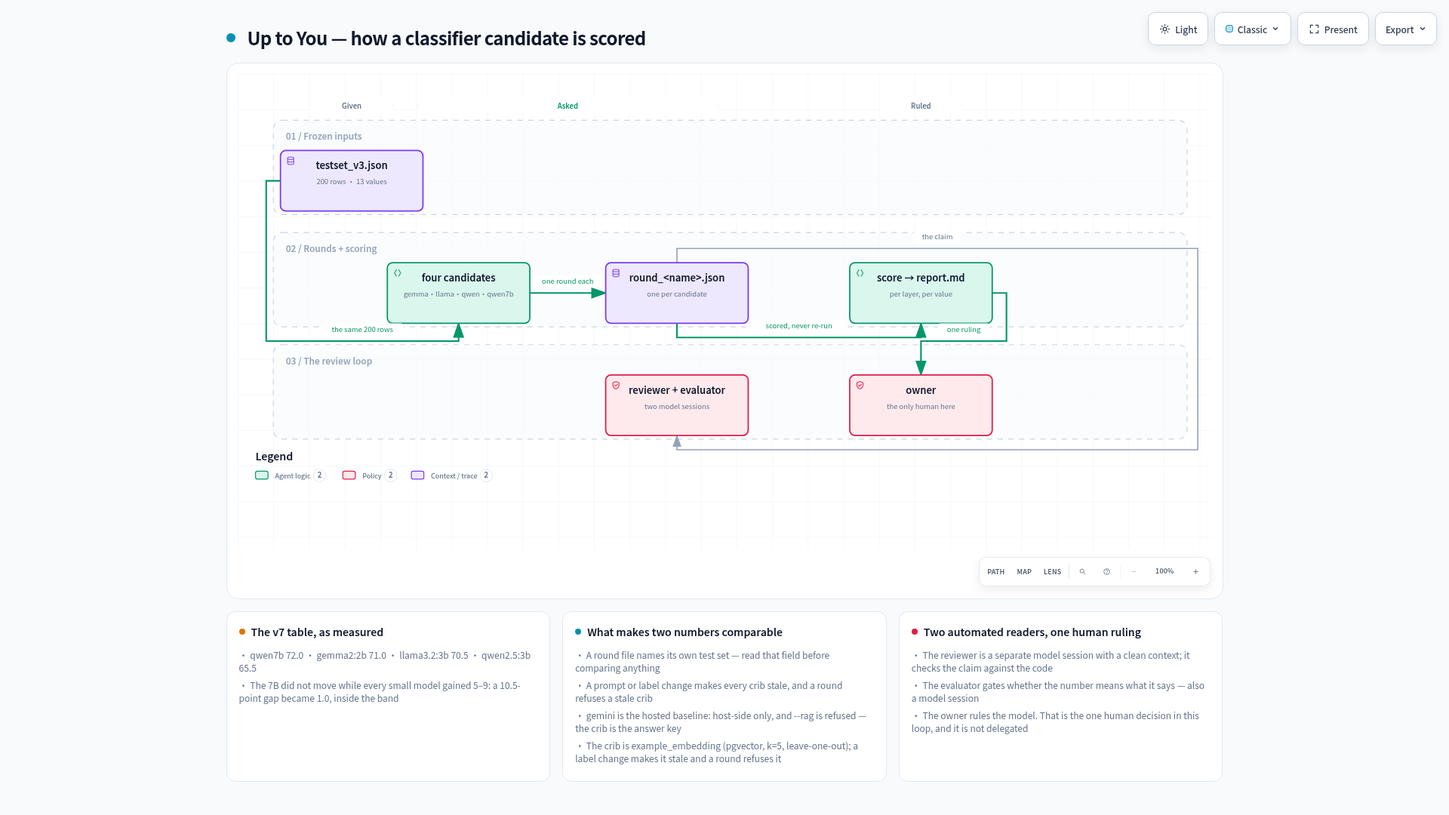
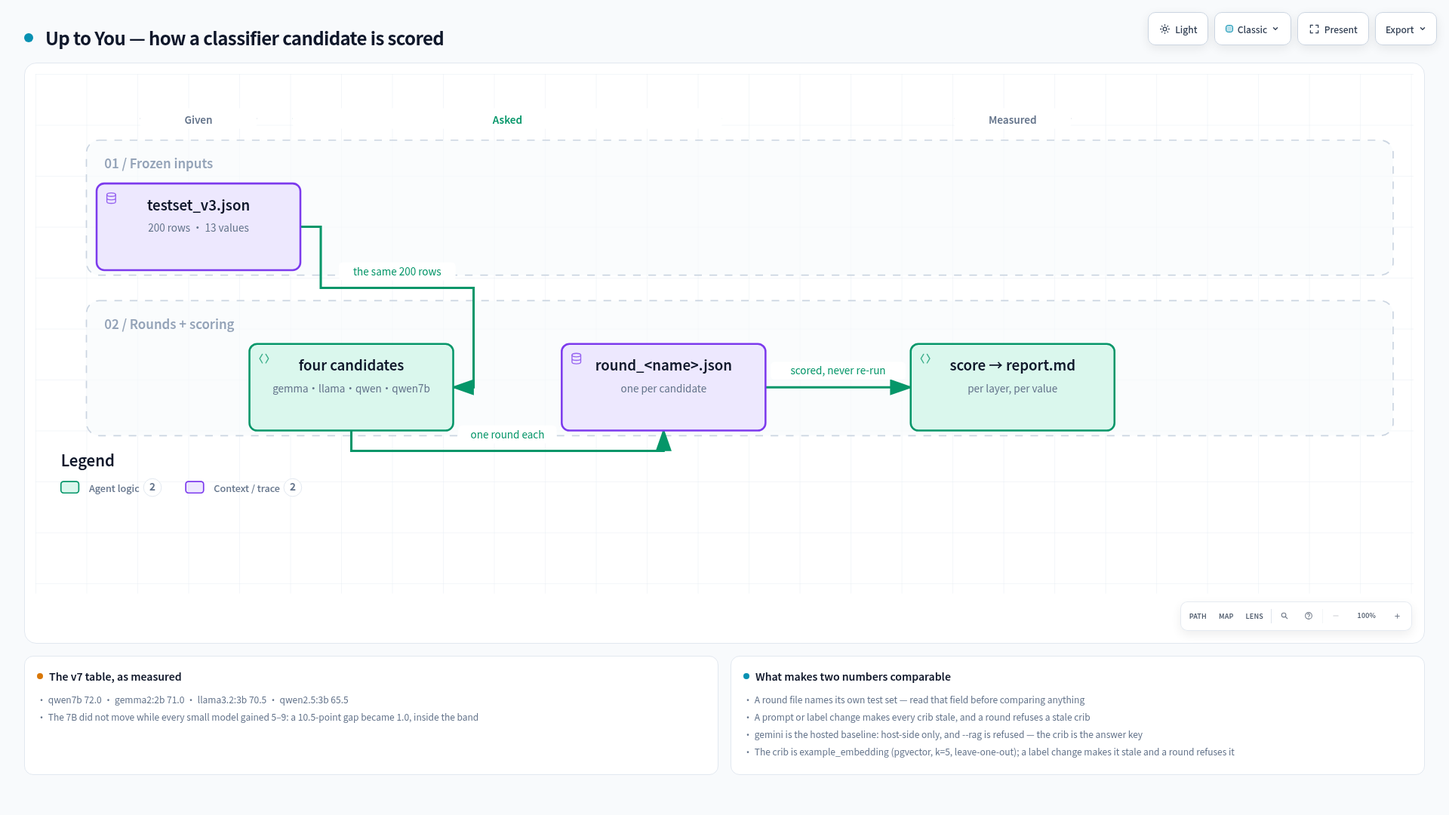
diagrams: the three drawn pictures redrawn for a public reader (evaluator)
The evaluator's redraws, committed by backend's pen. `architecture`, `etl-flow` and
`evaluation-flow`, each as `.json` (the editable source), `.png` (what the README embeds) and
`.html` (the explorable copy, carrying the same text).

Delivered and verified here by md5: architecture 58179bed / f2661df6 · etl-flow 8167ec7d /
083e9a84 · evaluation-flow d8dd8f4c / 6396ebd1.

The four text fixes that were to ride with these are already in 28ec4a1; this commit is the
pictures alone.

**The eight-word check re-run on this side rather than taken on trust, over all nine files.**
«reviewer», «The review loop», «proven not assumed», «t3.small», «completed_successfully» and
«A failed migration» are gone. Two words still match and both are false positives, recorded so the
next person running this grep does not re-open them:

- **`A9`** matches the hex colour `#a9c5d5` in every `.html`'s stylesheet.
- **`ruled`** matches «a palette for paper, ink, ruled structure, and one accent» — a theme comment
  using the word in its drawing sense, about ruled lines on paper.

**One real match, left alone deliberately:** `evaluation-flow.json` carries `"id": "ruled"` as a
node identifier. It is not displayed text — it appears in no `.png` and renders nowhere in the
`.html` — but it is a word from the private vocabulary sitting in a file that ships. Renaming it
means re-rendering the `.png` and the `.html` from the source, so it belongs to whoever regenerates
[…]

diff --git a/docs/diagrams/architecture.html b/docs/diagrams/architecture.html
@@ -5038,7 +5038,7 @@
         <rect width="100%" height="100%" fill="url(#grid)" />
 
         <!-- Boundaries (behind everything) -->
-        <rect data-graph-role="structural-frame" data-composition-frame-kind="region" data-composition-frame-id="0" data-composition-frame-label="One host — docker compose (EC2 t3.small, Tokyo)" x="350" y="130" width="830" height="538" rx="12" class="c-region" stroke-width="1"/>
+        <rect data-graph-role="structural-frame" data-composition-frame-kind="region" data-composition-frame-id="0" data-composition-frame-label="One host — docker compose (EC2 t3.medium, Tokyo)" x="350" y="130" width="830" height="538" rx="12" class="c-region" stroke-width="1"/>
 
         <rect data-graph-role="structural-frame" data-composition-frame-kind="security-group" data-composition-frame-id="1" data-composition-frame-label="member-facing" x="440" y="270" width="430" height="112" rx="8" class="c-security-group" stroke-width="1"/>
 
@@ -5049,13 +5049,12 @@
         <path data-edge-from="proxy" data-edge-to="api" data-edge-label="strips /api/" data-edge-key="3" data-edge-id="proxy-api" data-composition-points="620,331;700,331" d="M 620 331 L 700 331" class="a-emphasis" stroke-width="1.8" marker-end="url(#arrowhead-emphasis)"/>
         <path data-edge-from="api" data-edge-to="db" data-edge-label="asyncpg as upto_api" data-edge-key="4" data-edge-id="api-db" data-composition-points="840,331;1000,331" d="M 840 331 L 1000 331" class="a-default" stroke-width="1.5" marker-end="url(#arrowhead)"/>
         <path data-edge-from="migrate" data-edge-to="db" data-edge-label="owner role" data-edge-key="5" data-edge-id="migrate-db" data-composition-points="840,189;1075,189;1075,300" d="M 840 189 L 1067 189 Q 1075 189 1075 197 L 1075 300" class="a-dashed" stroke-width="1.5" marker-end="url(#arrowhead-dashed)"/>
-        <path data-edge-from="migrate" data-edge-to="api" data-edge-label="completed_successfully" data-edge-key="6" data-edge-id="migrate-api" data-composition-points="770,218;770,300" d="M 770 218 L 770 300" class="a-dashed" stroke-width="1.5" marker-end="url(#arrowhead-dashed)"/>
-        <path data-edge-from="dagproc" data-edge-to="scheduler" data-edge-label="serialised DAGs" data-edge-key="7" data-edge-id="dag-sched" data-composition-points="540,484;660,484" d="M 540 484 L 660 484" class="a-default" stroke-width="1.5" marker-end="url(#arrowhead)"/>
-        <path data-edge-from="scheduler" data-edge-to="db" data-edge-label="ingests · erasure · backup" data-edge-key="8" data-edge-id="sched-db" data-composition-points="735,455;735,408.5;1075,408.5;1075,362" d="M 735 455 L 735 416.5 Q 735 408.5 743 408.5 L 1067 408.5 Q 1075 408.5 1075 400.5 L 1075 362" class="a-default" stroke-width="1.5" marker-end="url(#arrowhead)"/>
-        <path data-edge-from="scheduler" data-edge-to="airflowapi" data-edge-label="airflow-logs volume" data-edge-key="9" data-edge-id="sched-logs" data-composition-points="810,484;960,484" d="M 810 484 L 960 484" class="a-dashed" stroke-width="1.5" marker-end="url(#arrowhead-dashed)"/>
-        <path data-edge-from="scheduler" data-edge-to="relay" data-edge-label="classify backfill" data-edge-key="10" data-edge-id="sched-relay" data-composition-points="728,513;728,537;554,537;554,619;530,619" d="M 728 513 L 728 529 Q 728 537 720 537 L 562 537 Q 554 537 554 545 L 554 611 Q 554 619 546 619 L 530 619" class="a-default" stroke-width="1.5" marker-end="url(#arrowhead)"/>
-        <path data-edge-from="relay" data-edge-to="gpu" data-edge-label="ssh tunnel" data-edge-key="11" data-edge-id="relay-gpu" data-composition-points="380,619;270,619" d="M 380 619 L 270 619" class="a-default" stroke-width="1.5" marker-end="url(#arrowhead)"/>
-        <path data-edge-from="scheduler" data-edge-to="s3" data-edge-label="pg_dump as upto_backup" data-edge-key="12" data-edge-id="sched-s3" data-composition-points="742,513;742,537;1116,537;1116,619;1140,619" d="M 742 513 L 742 529 Q 742 537 750 537 L 1108 537 Q 1116 537 1116 545 L 1116 611 Q 1116 619 1124 619 L 1140 619" class="a-default" stroke-width="1.5" marker-end="url(#arrowhead)"/>
+        <path data-edge-from="dagproc" data-edge-to="scheduler" data-edge-label="serialised DAGs" data-edge-key="6" data-edge-id="dag-sched" data-composition-points="540,484;660,484" d="M 540 484 L 660 484" class="a-default" stroke-width="1.5" marker-end="url(#arrowhead)"/>
+        <path data-edge-from="scheduler" data-edge-to="db" data-edge-label="ingests · erasure · backup" data-edge-key="7" data-edge-id="sched-db" data-composition-points="735,455;735,408.5;1075,408.5;1075,362" d="M 735 455 L 735 416.5 Q 735 408.5 743 408.5 L 1067 408.5 Q 1075 408.5 1075 400.5 L 1075 362" class="a-default" stroke-width="1.5" marker-end="url(#arrowhead)"/>
+        <path data-edge-from="scheduler" data-edge-to="airflowapi" data-edge-label="airflow-logs volume" data-edge-key="8" data-edge-id="sched-logs" data-composition-points="810,484;960,484" d="M 810 484 L 960 484" class="a-dashed" stroke-width="1.5" marker-end="url(#arrowhead-dashed)"/>
+        <path data-edge-from="scheduler" data-edge-to="relay" data-edge-label="classify backfill" data-edge-key="9" data-edge-id="sched-relay" data-composition-points="728,513;728,537;554,537;554,619;530,619" d="M 728 513 L 728 529 Q 728 537 720 537 L 562 537 Q 554 537 554 545 L 554 611 Q 554 619 546 619 L 530 619" class="a-default" stroke-width="1.5" marker-end="url(#arrowhead)"/>
+        <path data-edge-from="relay" data-edge-to="gpu" data-edge-label="ssh tunnel" data-edge-key="10" data-edge-id="relay-gpu" data-composition-points="380,619;270,619" d="M 380 619 L 270 619" class="a-default" stroke-width="1.5" marker-end="url(#arrowhead)"/>
+        <path data-edge-from="scheduler" data-edge-to="s3" data-edge-label="pg_dump as upto_backup" data-edge-key="11" data-edge-id="sched-s3" data-composition-points="742,513;742,537;1116,537;1116,619;1140,619" d="M 742 513 L 742 529 Q 742 537 750 537 L 1108 537 Q 1116 537 1116 545 L 1116 611 Q 1116 619 1124 619 L 1140 619" class="a-default" stroke-width="1.5" marker-end="url(#arrowhead)"/>
 
         <!-- Components -->
         <g id="node-members" data-node-id="members" data-node-label="Members" tabindex="0" role="button" aria-label="Focus Members, one circle, ≤10 seats, Architecture component" aria-pressed="false" data-node-kind="external" data-node-sublabel="one circle, ≤10 seats" data-node-context="Architecture component">
@@ -5082,8 +5081,8 @@
         <text data-detail="fine" x="320" y="354" class="t-cloud" font-size="7" text-anchor="middle">Full (strict)</text>
         </g>
 
-        <g id="node-proxy" data-node-id="proxy" data-node-label="proxy" tabindex="0" role="button" aria-label="Focus proxy, nginx · :8080 · :8443, One host — docker compose (EC2 t3.small, Tokyo) › member-facing" aria-pressed="false" data-node-kind="frontend" data-node-sublabel="nginx · :8080 · :8443" data-node-context="One host — docker compose (EC2 t3.small, Tokyo) › member-facing">
-          <title>proxy · nginx · :8080 · :8443 · One host — docker compose (EC2 t3.small, Tokyo) › member-facing</title>
+        <g id="node-proxy" data-node-id="proxy" data-node-label="proxy" tabindex="0" role="button" aria-label="Focus proxy, nginx · :8080 · :8443, One host — docker compose (EC2 t3.medium, Tokyo) › member-facing" aria-pressed="false" data-node-kind="frontend" data-node-sublabel="nginx · :8080 · :8443" data-node-context="One host — docker compose (EC2 t3.medium, Tokyo) › member-facing">
+          <title>proxy · nginx · :8080 · :8443 · One host — docker compose (EC2 t3.medium, Tokyo) › member-facing</title>
           <rect x="470" y="300" width="150" height="62" rx="6" class="c-mask"/>
           <rect x="470" y="300" width="150" height="62" rx="6" class="c-frontend" stroke-width="1.5"/>
           <g aria-hidden="true" data-semantic-sigil="frontend" class="semantic-sigil s-frontend" transform="translate(476 306) scale(0.6875)">
@@ -5096,8 +5095,8 @@
         <text data-detail="context" x="545" y="345" class="t-muted" font-size="9" text-anchor="middle">nginx · :8080 · :8443</text>
         </g>
 
-        <g id="node-tls" data-node-id="tls" data-node-label="tls/" tabindex="0" role="button" aria-label="Focus tls/, read-only bind mount, One host — docker compose (EC2 t3.small, Tokyo)" aria-pressed="false" data-node-kind="security" data-node-sublabel="read-only bind mount" data-node-tag="Origin CA · read-only" data-node-context="One host — docker compose (EC2 t3.small, Tokyo)">
-          <title>tls/ · read-only bind mount · One host — docker compose (EC2 t3.small, Tokyo) · Origin CA · read-only</title>
+        <g id="node-tls" data-node-id="tls" data-node-label="tls/" tabindex="0" role="button" aria-label="Focus tls/, read-only bind mount, One host — docker compose (EC2 t3.medium, Tokyo)" aria-pressed="false" data-node-kind="security" data-node-sublabel="read-only bind mount" data-node-tag="Origin CA · read-only" data-node-context="One host — docker compose (EC2 t3.medium, Tokyo)">
+          <title>tls/ · read-only bind mount · One host — docker compose (EC2 t3.medium, Tokyo) · Origin CA · read-only</title>
           <rect x="470" y="160" width="150" height="58" rx="6" class="c-mask"/>
           <rect x="470" y="160" width="150" height="58" rx="6" class="c-security" stroke-width="1.5"/>
           <g aria-hidden="true" data-semantic-sigil="security" class="semantic-sigil s-security" transform="translate(476 166) scale(0.6875)">
@@ -5109,8 +5108,8 @@
         <text data-detail="fine" x="545" y="210" class="t-security" font-size="7" text-anchor="middle">Origin CA · read-only</text>
         </g>
 
-        <g id="node-api" data-node-id="api" data-node-label="api" tabindex="0" role="button" aria-label="Focus api, FastAPI · uvicorn, One host — docker compose (EC2 t3.small, Tokyo) › member-facing" aria-pressed="false" data-node-kind="backend" data-node-sublabel="FastAPI · uvicorn" data-node-context="One host — docker compose (EC2 t3.small, Tokyo) › member-facing">
-          <title>api · FastAPI · uvicorn · One host — docker compose (EC2 t3.small, Tokyo) › member-facing</title>
+        <g id="node-api" data-node-id="api" data-node-label="api" tabindex="0" role="button" aria-label="Focus api, FastAPI · uvicorn, One host — docker compose (EC2 t3.medium, Tokyo) › member-facing" aria-pressed="false" data-node-kind="backend" data-node-sublabel="FastAPI · uvicorn" data-node-context="One host — docker compose (EC2 t3.medium, Tokyo) › member-facing">
+          <title>api · FastAPI · uvicorn · One host — docker compose (EC2 t3.medium, Tokyo) › member-facing</title>
           <rect x="700" y="300" width="140" height="62" rx="6" class="c-mask"/>
           <rect x="700" y="300" width="140" height="62" rx="6" class="c-backend" stroke-width="1.5"/>
           <g aria-hidden="true" data-semantic-sigil="backend" class="semantic-sigil s-backend" transform="translate(706 306) scale(0.6875)">
@@ -5120,8 +5119,8 @@
         <text data-detail="context" x="770" y="345" class="t-muted" font-size="9" text-anchor="middle">FastAPI · uvicorn</text>
         </g>
 
-        <g id="node-migrate" data-node-id="migrate" data-node-label="migrate" tabindex="0" role="button" aria-label="Focus migrate, one-shot · alembic, One host — docker compose (EC2 t3.small, Tokyo)" aria-pressed="false" data-node-kind="backend" data-node-sublabel="one-shot · alembic" data-node-tag="one-shot, then exits" data-node-context="One host — docker compose (EC2 t3.small, Tokyo)">
-          <title>migrate · one-shot · alembic · One host — docker compose (EC2 t3.small, Tokyo) · one-shot, then exits</title>
+        <g id="node-migrate" data-node-id="migrate" data-node-label="migrate" tabindex="0" role="button" aria-label="Focus migrate, one-shot · alembic, One host — docker compose (EC2 t3.medium, Tokyo)" aria-pressed="false" data-node-kind="backend" data-node-sublabel="one-shot · alembic" data-node-tag="one-shot, then exits" data-node-context="One host — docker compose (EC2 t3.medium, Tokyo)">
+          <title>migrate · one-shot · alembic · One host — docker compose (EC2 t3.medium, Tokyo) · one-shot, then exits</title>
           <rect x="700" y="160" width="140" height="58" rx="6" class="c-mask"/>
           <rect x="700" y="160" width="140" height="58" rx="6" class="c-backend" stroke-width="1.5"/>
           <g aria-hidden="true" data-semantic-sigil="backend" class="semantic-sigil s-backend" transform="translate(706 166) scale(0.6875)">
@@ -5132,8 +5131,8 @@
         <text data-detail="fine" x="770" y="210" class="t-backend" font-size="7" text-anchor="middle">one-shot, then exits</text>
         </g>
 
-        <g id="node-db" data-node-id="db" data-node-label="PostgreSQL 17" tabindex="0" role="button" aria-label="Focus PostgreSQL 17, db-data volume, One host — docker compose (EC2 t3.small, Tokyo)" aria-pressed="false" data-node-kind="database" data-node-sublabel="db-data volume" data-node-context="One host — docker compose (EC2 t3.small, Tokyo)">
-          <title>PostgreSQL 17 · db-data volume · One host — docker compose (EC2 t3.small, Tokyo)</title>
+        <g id="node-db" data-node-id="db" data-node-label="PostgreSQL 17" tabindex="0" role="button" aria-label="Focus PostgreSQL 17, db-data volume, One host — docker compose (EC2 t3.medium, Tokyo)" aria-pressed="false" data-node-kind="database" data-node-sublabel="db-data volume" data-node-context="One host — docker compose (EC2 t3.medium, Tokyo)">
+          <title>PostgreSQL 17 · db-data volume · One host — docker compose (EC2 t3.medium, Tokyo)</title>
           <rect x="1000" y="300" width="150" height="62" rx="6" class="c-mask"/>
           <rect x="1000" y="300" width="150" height="62" rx="6" class="c-database" stroke-width="1.5"/>
           <g aria-hidden="true" data-semantic-sigil="database" class="semantic-sigil s-database" transform="translate(1006 306) scale(0.6875)">
@@ -5144,8 +5143,8 @@
         <text data-detail="context" x="1075" y="345" class="t-muted" font-size="9" text-anchor="middle">db-data volume</text>
         </g>
 
-        <g id="node-scheduler" data-node-id="scheduler" data-node-label="airflow-scheduler" tabindex="0" role="button" aria-label="Focus airflow-scheduler, 11 DAGs, UTC, One host — docker compose (EC2 t3.small, Tokyo)" aria-pressed="false" data-node-kind="backend" data-node-sublabel="11 DAGs, UTC" data-node-context="One host — docker compose (EC2 t3.small, Tokyo)">
-          <title>airflow-scheduler · 11 DAGs, UTC · One host — docker compose (EC2 t3.small, Tokyo)</title>
+        <g id="node-scheduler" data-node-id="scheduler" data-node-label="airflow-scheduler" tabindex="0" role="button" aria-label="Focus airflow-scheduler, 11 DAGs, UTC, One host — docker compose (EC2 t3.medium, Tokyo)" aria-pressed="false" data-node-kind="backend" data-node-sublabel="11 DAGs, UTC" data-node-context="One host — docker compose (EC2 t3.medium, Tokyo)">
+          <title>airflow-scheduler · 11 DAGs, UTC · One host — docker compose (EC2 t3.medium, Tokyo)</title>
           <rect x="660" y="455" width="150" height="58" rx="6" class="c-mask"/>
           <rect x="660" y="455" width="150" height="58" rx="6" class="c-backend" stroke-width="1.5"/>
           <g aria-hidden="true" data-semantic-sigil="backend" class="semantic-sigil s-backend" transform="translate(666 461) scale(0.6875)">
@@ -5155,8 +5154,8 @@
         <text data-detail="context" x="735" y="498" class="t-muted" font-size="9" text-anchor="middle">11 DAGs, UTC</text>
         </g>
 
-        <g id="node-dagproc" data-node-id="dagproc" data-node-label="airflow-dag-processor" tabindex="0" role="button" aria-label="Focus airflow-dag-processor, parses dags/, One host — docker compose (EC2 t3.small, Tokyo)" aria-pressed="false" data-node-kind="backend" data-node-sublabel="parses dags/" data-node-context="One host — docker compose (EC2 t3.small, Tokyo)">
-          <title>airflow-dag-processor · parses dags/ · One host — docker compose (EC2 t3.small, Tokyo)</title>
+        <g id="node-dagproc" data-node-id="dagproc" data-node-label="airflow-dag-processor" tabindex="0" role="button" aria-label="Focus airflow-dag-processor, parses dags/, One host — docker compose (EC2 t3.medium, Tokyo)" aria-pressed="false" data-node-kind="backend" data-node-sublabel="parses dags/" data-node-context="One host — docker compose (EC2 t3.medium, Tokyo)">
+          <title>airflow-dag-processor · parses dags/ · One host — docker compose (EC2 t3.medium, Tokyo)</title>
           <rect x="380" y="455" width="160" height="58" rx="6" class="c-mask"/>
           <rect x="380" y="455" width="160" height="58" rx="6" class="c-backend" stroke-width="1.5"/>
           <g aria-hidden="true" data-semantic-sigil="backend" class="semantic-sigil s-backend" transform="translate(386 461) scale(0.6875)">
@@ -5166,8 +5165,8 @@
         <text data-detail="context" x="460" y="498" class="t-muted" font-size="9" text-anchor="middle">parses dags/</text>
         </g>
 
-        <g id="node-airflowapi" data-node-id="airflowapi" data-node-label="airflow-api" tabindex="0" role="button" aria-label="Focus airflow-api, :8081 · operator only, One host — docker compose (EC2 t3.small, Tokyo)" aria-pressed="false" data-node-kind="frontend" data-node-sublabel=":8081 · operator only" data-node-context="One host — docker compose (EC2 t3.small, Tokyo)">
-          <title>airflow-api · :8081 · operator only · One host — docker compose (EC2 t3.small, Tokyo)</title>
+        <g id="node-airflowapi" data-node-id="airflowapi" data-node-label="airflow-api" tabindex="0" role="button" aria-label="Focus airflow-api, :8081 · operator only, One host — docker compose (EC2 t3.medium, Tokyo)" aria-pressed="false" data-node-kind="frontend" data-node-sublabel=":8081 · operator only" data-node-context="One host — docker compose (EC2 t3.medium, Tokyo)">
+          <title>airflow-api · :8081 · operator only · One host — docker compose (EC2 t3.medium, Tokyo)</title>
           <rect x="960" y="455" width="150" height="58" rx="6" class="c-mask"/>
           <rect x="960" y="455" width="150" height="58" rx="6" class="c-frontend" stroke-width="1.5"/>
           <g aria-hidden="true" data-semantic-sigil="frontend" class="semantic-sigil s-frontend" transform="translate(966 461) scale(0.6875)">
@@ -5180,8 +5179,8 @@
         <text data-detail="context" x="1035" y="498" class="t-muted" font-size="9" text-anchor="middle">:8081 · operator only</text>
         </g>
 
-        <g id="node-relay" data-node-id="relay" data-node-label="tunnel relay" tabindex="0" role="button" aria-label="Focus tunnel relay, 172.17.0.1:11434, One host — docker compose (EC2 t3.small, Tokyo)" aria-pressed="false" data-node-kind="messagebus" data-node-sublabel="172.17.0.1:11434" data-node-context="One host — docker compose (EC2 t3.small, Tokyo)">
-          <title>tunnel relay · 172.17.0.1:11434 · One host — docker compose (EC2 t3.small, Tokyo)</title>
+        <g id="node-relay" data-node-id="relay" data-node-label="tunnel relay" tabindex="0" role="button" aria-label="Focus tunnel relay, 172.17.0.1:11434, One host — docker compose (EC2 t3.medium, Tokyo)" aria-pressed="false" data-node-kind="messagebus" data-node-sublabel="172.17.0.1:11434" data-node-context="One host — docker compose (EC2 t3.medium, Tokyo)">
+          <title>tunnel relay · 172.17.0.1:11434 · One host — docker compose (EC2 t3.medium, Tokyo)</title>
           <rect x="380" y="590" width="150" height="58" rx="6" class="c-mask"/>
           <rect x="380" y="590" width="150" height="58" rx="6" class="c-messagebus" stroke-width="1.5"/>
           <g aria-hidden="true" data-semantic-sigil="messagebus" class="semantic-sigil s-messagebus" transform="translate(386 596) scale(0.6875)">
@@ -5242,39 +5241,35 @@
           <rect x="1046" y="224.5" width="58" height="14" rx="3" class="c-mask"/>
           <text x="1075" y="234.5" class="t-messagebus" font-size="8" text-anchor="middle">owner role</text>
         </g>
-        <g data-detail="context" data-edge-from="migrate" data-edge-to="api" data-edge-label="completed_successfully" data-edge-key="6" data-edge-id="migrate-api">
-          <rect x="712.2" y="222" width="115.6" height="14" rx="3" class="c-mask"/>
-          <text x="770" y="232" class="t-messagebus" font-size="8" text-anchor="middle">completed_successfully</text>
-        </g>
-        <g data-detail="context" data-edge-from="dagproc" data-edge-to="scheduler" data-edge-label="serialised DAGs" data-edge-key="7" data-edge-id="dag-sched">
+        <g data-detail="context" data-edge-from="dagproc" data-edge-to="scheduler" data-edge-label="serialised DAGs" data-edge-key="6" data-edge-id="dag-sched">
           <rect x="559" y="464" width="82" height="14" rx="3" class="c-mask"/>
           <text x="600" y="474" class="t-muted" font-size="8" text-anchor="middle">serialised DAGs</text>
         </g>
-        <g data-detail="context" data-edge-from="scheduler" data-edge-to="db" data-edge-label="ingests · erasure · backup" data-edge-key="8" data-edge-id="sched-db">
+        <g data-detail="context" data-edge-from="scheduler" data-edge-to="db" data-edge-label="ingests · erasure · backup" data-edge-key="7" data-edge-id="sched-db">
           <rect x="837.6" y="388.5" width="134.8" height="14" rx="3" class="c-mask"/>
           <text x="905" y="398.5" class="t-muted" font-size="8" text-anchor="middle">ingests · erasure · backup</text>
         </g>
-        <g data-detail="context" data-edge-from="scheduler" data-edge-to="airflowapi" data-edge-label="airflow-logs volume" data-edge-key="9" data-edge-id="sched-logs">
+        <g data-detail="context" data-edge-from="scheduler" data-edge-to="airflowapi" data-edge-label="airflow-logs volume" data-edge-key="8" data-edge-id="sched-logs">
           <rect x="834.4" y="464" width="101.2" height="14" rx="3" class="c-mask"/>
           <text x="885" y="474" class="t-messagebus" font-size="8" text-anchor="middle">airflow-logs volume</text>
         </g>
-        <g data-detail="context" data-edge-from="scheduler" data-edge-to="relay" data-edge-label="classify backfill" data-edge-key="10" data-edge-id="sched-relay">
+        <g data-detail="context" data-edge-from="scheduler" data-edge-to="relay" data-edge-label="classify backfill" data-edge-key="9" data-edge-id="sched-relay">
           <rect x="595.2" y="517" width="91.6" height="14" rx="3" class="c-mask"/>
           <text x="641" y="527" class="t-muted" font-size="8" text-anchor="middle">classify backfill</text>
         </g>
-        <g data-detail="context" data-edge-from="relay" data-edge-to="gpu" data-edge-label="ssh tunnel" data-edge-key="11" data-edge-id="relay-gpu">
+        <g data-detail="context" data-edge-from="relay" data-edge-to="gpu" data-edge-label="ssh tunnel" data-edge-key="10" data-edge-id="relay-gpu">
           <rect x="296" y="599" width="58" height="14" rx="3" class="c-mask"/>
           <text x="325" y="609" class="t-muted" font-size="8" text-anchor="middle">ssh tunnel</text>
         </g>
-        <g data-detail="context" data-edge-from="scheduler" data-edge-to="s3" data-edge-label="pg_dump as upto_backup" data-edge-key="12" data-edge-id="sched-s3">
+        <g data-detail="context" data-edge-from="scheduler" data-edge-to="s3" data-edge-label="pg_dump as upto_backup" data-edge-key="11" data-edge-id="sched-s3">
           <rect x="871.2" y="517" width="115.6" height="14" rx="3" class="c-mask"/>
           <text x="929" y="527" class="t-muted" font-size="8" text-anchor="middle">pg_dump as upto_backup</text>
         </g>
 
         <!-- Boundary labels (foreground masks keep routes out of titles) -->
-        <g data-graph-role="structural-frame-label" data-composition-frame-id="0" data-composition-frame-kind="region" data-composition-frame-label="One host — docker compose (EC2 t3.small, Tokyo)">
-          <rect data-graph-role="structural-frame-label-mask" x="354" y="140" width="263.79999999999995" height="16" rx="3" class="c-mask"/>
-          <text data-boundary-label="" x="358" y="153" class="t-cloud" font-size="9" font-weight="600">One host — docker compose (EC2 t3.small, Tokyo)</text>
+        <g data-graph-role="structural-frame-label" data-composition-frame-id="0" data-composition-frame-kind="region" data-composition-frame-label="One host — docker compose (EC2 t3.medium, Tokyo)">
+          <rect data-graph-role="structural-frame-label-mask" x="354" y="140" width="269.2" height="16" rx="3" class="c-mask"/>
+          <text data-boundary-label="" x="358" y="153" class="t-cloud" font-size="9" font-weight="600">One host — docker compose (EC2 t3.medium, Tokyo)</text>
         </g>
 
         <g data-graph-role="structural-frame-label" data-composition-frame-id="1" data-composition-frame-kind="security-group" data-composition-frame-label="member-facing">
@@ -5520,7 +5515,7 @@
         <ul>
           <li>&bull; migrate runs as the owner and exits; api never can</li>
           <li>&bull; upto_api · upto_ingest · upto_erasure · upto_backup</li>
-          <li>&bull; A failed migration stops the api one container earlier</li>
+          <li>&bull; the api exits rather than serve a schema it was not written against</li>
         </ul>
       </div>
 

diff --git a/docs/diagrams/evaluation-flow.html b/docs/diagrams/evaluation-flow.html
@@ -5012,7 +5012,7 @@
     <!-- Main Diagram -->
     <div class="diagram-container" data-detail-level="read"
          data-preset-badge-editorial-plate="ARCHIFY / PLATE 04">
-      <svg viewBox="0 0 1094 534" role="img" lang="en" aria-labelledby="archify-diagram-title archify-diagram-description" data-preset="classic" data-quality-profile="showcase">
+      <svg viewBox="0 0 1082 408" role="img" lang="en" aria-labelledby="archify-diagram-title archify-diagram-description" data-preset="classic" data-quality-profile="showcase">
         <title id="archify-diagram-title">Up to You — how a classifier candidate is scored</title>
         <desc id="archify-diagram-description">A workflow diagram generated by Archify.</desc>
         <!-- Definitions -->
@@ -5044,9 +5044,6 @@
         <rect data-graph-role="structural-frame" data-composition-frame-kind="lane" data-composition-frame-id="lane-1" x="40" y="178" width="1026" height="106" rx="10" class="c-lane" stroke-width="1"/>
         <text x="54" y="200" class="t-dim" font-size="10" font-weight="600">02 / Rounds + scoring</text>
 
-        <rect data-graph-role="structural-frame" data-composition-frame-kind="lane" data-composition-frame-id="lane-2" x="40" y="304" width="1026" height="106" rx="10" class="c-lane" stroke-width="1"/>
-        <text x="54" y="326" class="t-dim" font-size="10" font-weight="600">03 / The review loop</text>
-
         <!-- Phase headers -->
         <line x1="82" y1="35" x2="174" y2="35" class="a-default" stroke-width="1.1"/>
         <rect x="82" y="27" width="92" height="16" rx="4" class="c-mask"/>
@@ -5056,17 +5053,15 @@
         <text x="370.6" y="39" class="t-backend" font-size="8" font-weight="600" text-anchor="middle">Asked</text>
         <line x1="721.2" y1="35" x2="813.2" y2="35" class="a-default" stroke-width="1.1"/>
         <rect x="721.2" y="27" width="92" height="16" rx="4" class="c-mask"/>
-        <text x="767.2" y="39" class="t-muted" font-size="8" font-weight="600" text-anchor="middle">Ruled</text>
+        <text x="767.2" y="39" class="t-muted" font-size="8" font-weight="600" text-anchor="middle">Measured</text>
 
         <!-- Workflow groups -->
 
 
         <!-- Edge paths -->
-        <path data-edge-from="testset" data-edge-to="local" data-edge-label="the same 200 rows" data-edge-key="0" data-edge-id="e1" data-composition-points="48,120;32,120;32,300;248,300;248,280" d="M 48 120 L 32 120 L 32 300 L 248 300 L 248 280" class="a-emphasis" stroke-width="1.8" marker-end="url(#arrowhead-emphasis)"/>
-        <path data-edge-from="local" data-edge-to="roundfile" data-edge-label="one round each" data-edge-key="1" data-edge-id="e2" data-composition-points="328,246;413.2,246" d="M 328 246 L 413.2 246" class="a-emphasis" stroke-width="1.8" marker-end="url(#arrowhead-emphasis)"/>
-        <path data-edge-from="roundfile" data-edge-to="score" data-edge-label="scored, never re-run" data-edge-key="2" data-edge-id="e3" data-composition-points="493.2,280;493.2,296;767.2,296;767.2,280" d="M 493.2 280 L 493.2 296 L 767.2 296 L 767.2 280" class="a-emphasis" stroke-width="1.8" marker-end="url(#arrowhead-emphasis)"/>
-        <path data-edge-from="roundfile" data-edge-to="gates" data-edge-label="the claim" data-edge-key="3" data-edge-id="e4" data-composition-points="493.2,212;493.2,196;1078,196;1078,422;493.2,422;493.2,406" d="M 493.2 212 L 493.2 196 L 1078 196 L 1078 422 L 493.2 422 L 493.2 406" class="a-default" stroke-width="1.4" marker-end="url(#arrowhead)"/>
-        <path data-edge-from="score" data-edge-to="owner" data-edge-label="one ruling" data-edge-key="4" data-edge-id="e5" data-composition-points="847.2,246;863.2,246;863.2,300;767.2,300;767.2,338" d="M 847.2 246 L 863.2 246 L 863.2 300 L 767.2 300 L 767.2 338" class="a-emphasis" stroke-width="1.8" marker-end="url(#arrowhead-emphasis)"/>
+        <path data-edge-from="testset" data-edge-to="local" data-edge-label="the same 200 rows" data-edge-key="0" data-edge-id="e1" data-composition-points="208,120;224,120;224,168;344,168;344,246;328,246" d="M 208 120 L 224 120 L 224 168 L 344 168 L 344 246 L 328 246" class="a-emphasis" stroke-width="1.8" marker-end="url(#arrowhead-emphasis)"/>
+        <path data-edge-from="local" data-edge-to="roundfile" data-edge-label="one round each" data-edge-key="1" data-edge-id="e2" data-composition-points="248,280;248,296;493.2,296;493.2,280" d="M 248 280 L 248 296 L 493.2 296 L 493.2 280" class="a-emphasis" stroke-width="1.8" marker-end="url(#arrowhead-emphasis)"/>
+        <path data-edge-from="roundfile" data-edge-to="score" data-edge-label="scored, never re-run" data-edge-key="2" data-edge-id="e3" data-composition-points="573.2,246;687.2,246" d="M 573.2 246 L 687.2 246" class="a-emphasis" stroke-width="1.8" marker-end="url(#arrowhead-emphasis)"/>
 
         <!-- Nodes -->
         <g id="node-testset" data-node-id="testset" data-node-label="testset_v3.json" tabindex="0" role="button" aria-label="Focus testset_v3.json, 200 rows · 13 values, Frozen inputs › Given" aria-pressed="false" data-node-kind="database" data-node-sublabel="200 rows · 13 values" data-node-tag="frozen" data-node-context="Frozen inputs › Given">
@@ -5107,8 +5102,8 @@
         <text data-detail="fine" x="493.2" y="268" class="t-database" font-size="7" text-anchor="middle">resumable</text>
         </g>
 
-        <g id="node-score" data-node-id="score" data-node-label="score → report.md" tabindex="0" role="button" aria-label="Focus score → report.md, per layer, per value, Rounds + scoring › Ruled" aria-pressed="false" data-node-kind="backend" data-node-sublabel="per layer, per value" data-node-tag="±6.5 band" data-node-context="Rounds + scoring › Ruled">
-          <title>score → report.md · per layer, per value · Rounds + scoring › Ruled · ±6.5 band</title>
+        <g id="node-score" data-node-id="score" data-node-label="score → report.md" tabindex="0" role="button" aria-label="Focus score → report.md, per layer, per value, Rounds + scoring › Measured" aria-pressed="false" data-node-kind="backend" data-node-sublabel="per layer, per value" data-node-tag="±6.5 band" data-node-context="Rounds + scoring › Measured">
+          <title>score → report.md · per layer, per value · Rounds + scoring › Measured · ±6.5 band</title>
           <rect x="687.2" y="212" width="160" height="68" rx="6" class="c-mask"/>
           <rect x="687.2" y="212" width="160" height="68" rx="6" class="c-backend" stroke-width="1.5"/>
           <g aria-hidden="true" data-semantic-sigil="backend" class="semantic-sigil s-backend" transform="translate(693.2 218) scale(0.6875)">
@@ -5119,68 +5114,30 @@
         <text data-detail="fine" x="767.2" y="268" class="t-backend" font-size="7" text-anchor="middle">±6.5 band</text>
         </g>
 
-        <g id="node-gates" data-node-id="gates" data-node-label="reviewer + evaluator" tabindex="0" role="button" aria-label="Focus reviewer + evaluator, two model sessions, The review loop › Asked" aria-pressed="false" data-node-kind="security" data-node-sublabel="two model sessions" data-node-tag="separate contexts" data-node-context="The review loop › Asked">
-          <title>reviewer + evaluator · two model sessions · The review loop › Asked · separate contexts</title>
-          <rect x="413.2" y="338" width="160" height="68" rx="6" class="c-mask"/>
-          <rect x="413.2" y="338" width="160" height="68" rx="6" class="c-security" stroke-width="1.5"/>
-          <g aria-hidden="true" data-semantic-sigil="security" class="semantic-sigil s-security" transform="translate(419.2 344) scale(0.6875)">
-            <path d="M8 2.2 13 4v3.5c0 3.1-1.8 5.4-5 6.5-3.2-1.1-5-3.4-5-6.5V4Z"/>
-            <path d="m5.8 8 1.5 1.5 3-3"/>
-          </g>
-          <text data-node-label="" data-detail-anchor="" x="493.2" y="359" class="t-primary" font-size="11" font-weight="600" text-anchor="middle">reviewer + evaluator</text>
-          <text data-detail="context" x="493.2" y="376" class="t-muted" font-size="8" text-anchor="middle">two model sessions</text>
-        <text data-detail="fine" x="493.2" y="394" class="t-security" font-size="7" text-anchor="middle">separate contexts</text>
-        </g>
-
-        <g id="node-owner" data-node-id="owner" data-node-label="owner" tabindex="0" role="button" aria-label="Focus owner, the only human here, The review loop › Ruled" aria-pressed="false" data-node-kind="security" data-node-sublabel="the only human here" data-node-tag="selection is not delegated" data-node-context="The review loop › Ruled">
-          <title>owner · the only human here · The review loop › Ruled · selection is not delegated</title>
-          <rect x="687.2" y="338" width="160" height="68" rx="6" class="c-mask"/>
-          <rect x="687.2" y="338" width="160" height="68" rx="6" class="c-security" stroke-width="1.5"/>
-          <g aria-hidden="true" data-semantic-sigil="security" class="semantic-sigil s-security" transform="translate(693.2 344) scale(0.6875)">
-            <path d="M8 2.2 13 4v3.5c0 3.1-1.8 5.4-5 6.5-3.2-1.1-5-3.4-5-6.5V4Z"/>
-            <path d="m5.8 8 1.5 1.5 3-3"/>
-          </g>
-          <text data-node-label="" data-detail-anchor="" x="767.2" y="359" class="t-primary" font-size="11" font-weight="600" text-anchor="middle">owner</text>
-          <text data-detail="context" x="767.2" y="376" class="t-muted" font-size="8" text-anchor="middle">the only human here</text>
-        <text data-detail="fine" x="767.2" y="394" class="t-security" font-size="7" text-anchor="middle">selection is not delegated</text>
-        </g>
-
         <!-- Edge labels -->
         <g data-detail="context" data-edge-from="testset" data-edge-to="local" data-edge-label="the same 200 rows" data-edge-key="0" data-edge-id="e1">
-          <rect x="94.2" y="280" width="91.6" height="14" rx="3" class="c-mask"/>
-          <text x="140" y="290" class="t-backend" font-size="8" text-anchor="middle">the same 200 rows</text>
+          <rect x="238.2" y="148" width="91.6" height="14" rx="3" class="c-mask"/>
+          <text x="284" y="158" class="t-backend" font-size="8" text-anchor="middle">the same 200 rows</text>
         </g>
         <g data-detail="context" data-edge-from="local" data-edge-to="roundfile" data-edge-label="one round each" data-edge-key="1" data-edge-id="e2">
-          <rect x="332" y="226" width="77.2" height="14" rx="3" class="c-mask"/>
-          <text x="370.6" y="236" class="t-backend" font-size="8" text-anchor="middle">one round each</text>
+          <rect x="332" y="276" width="77.2" height="14" rx="3" class="c-mask"/>
+          <text x="370.6" y="286" class="t-backend" font-size="8" text-anchor="middle">one round each</text>
         </g>
         <g data-detail="context" data-edge-from="roundfile" data-edge-to="score" data-edge-label="scored, never re-run" data-edge-key="2" data-edge-id="e3">
-          <rect x="577.2" y="276" width="106" height="14" rx="3" class="c-mask"/>
-          <text x="630.2" y="286" class="t-backend" font-size="8" text-anchor="middle">scored, never re-run</text>
-        </g>
-        <g data-detail="context" data-edge-from="roundfile" data-edge-to="gates" data-edge-label="the claim" data-edge-key="3" data-edge-id="e4">
-          <rect x="759" y="176" width="53.199999999999996" height="14" rx="3" class="c-mask"/>
-          <text x="785.6" y="186" class="t-muted" font-size="8" text-anchor="middle">the claim</text>
-        </g>
-        <g data-detail="context" data-edge-from="score" data-edge-to="owner" data-edge-label="one ruling" data-edge-key="4" data-edge-id="e5">
-          <rect x="786.2" y="280" width="58" height="14" rx="3" class="c-mask"/>
-          <text x="815.2" y="290" class="t-backend" font-size="8" text-anchor="middle">one ruling</text>
+          <rect x="577.2" y="226" width="106" height="14" rx="3" class="c-mask"/>
+          <text x="630.2" y="236" class="t-backend" font-size="8" text-anchor="middle">scored, never re-run</text>
         </g>
 
         <!-- Legend -->
         <g data-legend="" data-legend-bridge="">
-          <text x="20" y="434" class="t-primary" font-size="12" font-weight="650">Legend</text>
-          <g data-legend-semantic-kind="backend" data-legend-kind="backend" data-legend-label="Agent logic" data-legend-x="20" data-legend-baseline="454" data-legend-width="91">
-            <rect x="20" y="446" width="14" height="9" rx="2" class="c-backend" stroke-width="1"/>
-            <text x="42" y="454" class="t-muted" font-size="7.5" font-weight="500">Agent logic</text>
+          <text x="20" y="308" class="t-primary" font-size="12" font-weight="650">Legend</text>
+          <g data-legend-semantic-kind="backend" data-legend-kind="backend" data-legend-label="Agent logic" data-legend-x="20" data-legend-baseline="328" data-legend-width="91">
+            <rect x="20" y="320" width="14" height="9" rx="2" class="c-backend" stroke-width="1"/>
+            <text x="42" y="328" class="t-muted" font-size="7.5" font-weight="500">Agent logic</text>
           </g>
-          <g data-legend-semantic-kind="security" data-legend-kind="security" data-legend-label="Policy" data-legend-x="118" data-legend-baseline="454" data-legend-width="70">
-            <rect x="118" y="446" width="14" height="9" rx="2" class="c-security" stroke-width="1"/>
-            <text x="140" y="454" class="t-muted" font-size="7.5" font-weight="500">Policy</text>
-          </g>
-          <g data-legend-semantic-kind="database" data-legend-kind="database" data-legend-label="Context / trace" data-legend-x="195" data-legend-baseline="454" data-legend-width="109">
-            <rect x="195" y="446" width="14" height="9" rx="2" class="c-database" stroke-width="1"/>
-            <text x="217" y="454" class="t-muted" font-size="7.5" font-weight="500">Context / trace</text>
+          <g data-legend-semantic-kind="database" data-legend-kind="database" data-legend-label="Context / trace" data-legend-x="118" data-legend-baseline="328" data-legend-width="109">
+            <rect x="118" y="320" width="14" height="9" rx="2" class="c-database" stroke-width="1"/>
+            <text x="140" y="328" class="t-muted" font-size="7.5" font-weight="500">Context / trace</text>
           </g>
         </g>
       </svg>
@@ -5390,18 +5347,6 @@
           <li>&bull; A prompt or label change makes every crib stale, and a round refuses a stale crib</li>
           <li>&bull; gemini is the hosted baseline: host-side only, and --rag is refused — the crib is the answer key</li>
           <li>&bull; The crib is example_embedding (pgvector, k=5, leave-one-out); a label change makes it stale and a round refuses it</li>
-        </ul>
-      </div>
-
-      <div class="card">
-        <div class="card-header">
-          <div class="card-dot rose"></div>
-          <h3>Two automated readers, one human ruling</h3>
-        </div>
-        <ul>
-          <li>&bull; The reviewer is a separate model session with a clean context; it checks the claim against the code</li>
-          <li>&bull; The evaluator gates whether the number means what it says — also a model session</li>
-          <li>&bull; The owner rules the model. That is the one human decision in this loop, and it is not delegated</li>
         </ul>
       </div>
     </div>

diff --git a/docs/diagrams/etl-flow.html b/docs/diagrams/etl-flow.html
@@ -5148,8 +5148,8 @@
         <text data-detail="fine" x="745" y="403" class="t-backend" font-size="7" text-anchor="middle">reads, never writes</text>
         </g>
 
-        <g id="node-check" data-node-id="check" data-node-label="check_publication" tabindex="0" role="button" aria-label="Focus check_publication, A9 · vs the one before, 04 / Consumers" aria-pressed="false" data-node-kind="security" data-node-sublabel="A9 · vs the one before" data-node-tag="no −20% drop · same signature" data-node-context="04 / Consumers">
-          <title>check_publication · A9 · vs the one before · 04 / Consumers · no −20% drop · same signature</title>
+        <g id="node-check" data-node-id="check" data-node-label="check_publication" tabindex="0" role="button" aria-label="Focus check_publication, compared to the previous publication, 04 / Consumers" aria-pressed="false" data-node-kind="security" data-node-sublabel="compared to the previous publication" data-node-tag="no −20% drop · same signature" data-node-context="04 / Consumers">
+          <title>check_publication · compared to the previous publication · 04 / Consumers · no −20% drop · same signature</title>
           <rect x="660" y="470" width="170" height="58" rx="6" class="c-mask"/>
           <rect x="660" y="470" width="170" height="58" rx="6" class="c-security" stroke-width="1.5"/>
           <g aria-hidden="true" data-semantic-sigil="security" class="semantic-sigil s-security" transform="translate(666 476) scale(0.6875)">
@@ -5157,7 +5157,7 @@
             <path d="m5.8 8 1.5 1.5 3-3"/>
           </g>
           <text data-node-label="" data-detail-anchor="" x="745" y="491" class="t-primary" font-size="10" font-weight="600" text-anchor="middle">check_publication</text>
-          <text data-detail="context" x="745" y="507" class="t-muted" font-size="7" text-anchor="middle">A9 · vs the one before</text>
+          <text data-detail="context" x="745" y="507" class="t-muted" font-size="7" text-anchor="middle">compared to the previous publication</text>
         <text data-detail="fine" x="745" y="517" class="t-security" font-size="7" text-anchor="middle">no −20% drop · same signature</text>
         </g>
 
@@ -5194,7 +5194,7 @@
         <g data-detail="context" data-edge-from="pubs" data-edge-to="check" data-edge-label="previous publication" data-edge-key="6">
           <rect x="643" y="417" width="110" height="27" rx="4" class="c-mask"/>
           <text x="698" y="428" class="t-muted" font-size="8" text-anchor="middle">previous publication</text>
-        <text data-detail="fine" x="698" y="439" class="t-dim" font-size="7" text-anchor="middle">A9</text>
+        <text data-detail="fine" x="698" y="439" class="t-dim" font-size="7" text-anchor="middle">compared, or n/a</text>
         </g>
 
         <!-- Legend -->
@@ -5413,7 +5413,7 @@
       <div class="card">
         <div class="card-header">
           <div class="card-dot cyan"></div>
-          <h3>Idempotent, proven not assumed</h3>
+          <h3>Every source idempotent — every column compared, twice</h3>
         </div>
         <ul>
           <li>&bull; content_sha256 decides new from unchanged — never the publisher&#39;s own stamp</li>
